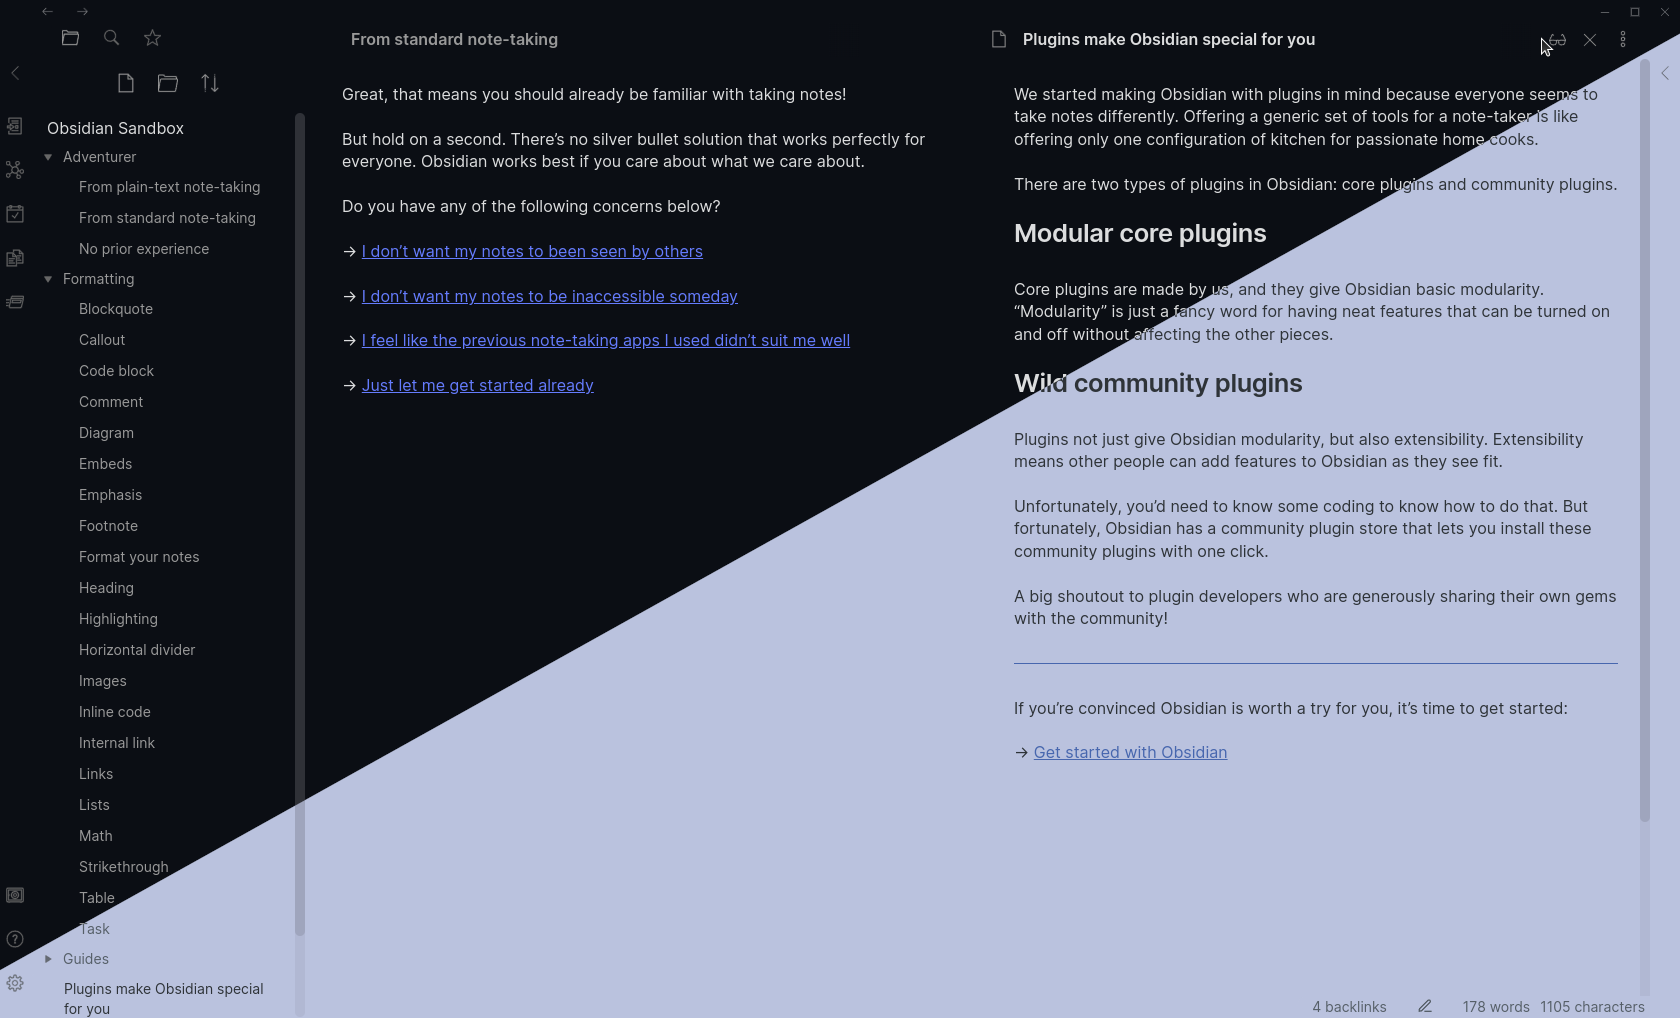
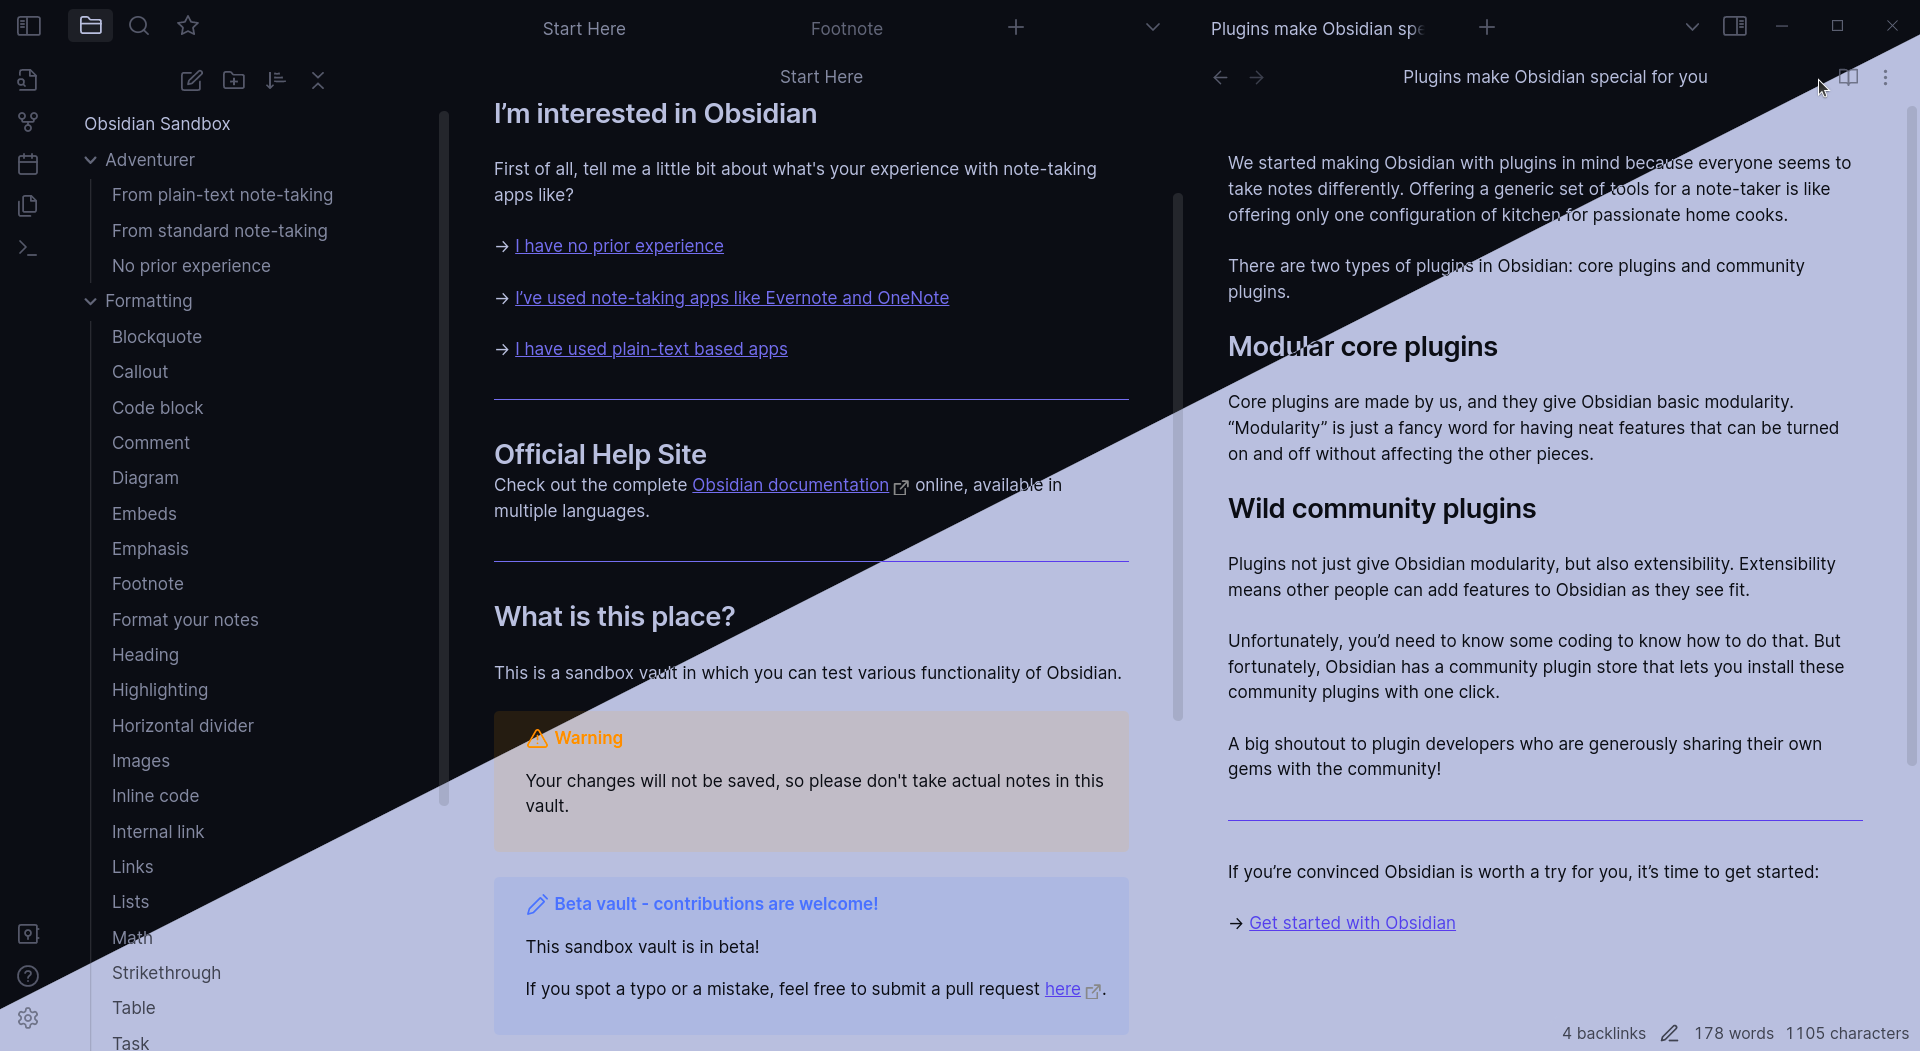
Initial version for Obsidian 1.0

diff --git a/theme.css b/theme.css
@@ -1,0 +1,64 @@
+.theme-dark {
+  --color-base-00: #0b0e14;
+  --color-base-10: #1c2028;
+  --color-base-20: #2d323c;
+  --color-base-25: #363b46;
+  --color-base-30: #3f4450;
+  --color-base-35: #474d5a;
+  --color-base-40: #505664;
+  --color-base-50: #626879;
+  --color-base-60: #737a8d;
+  --color-base-70: #848ca1;
+  --color-base-100: #b9c3de;
+}
+
+.theme-light {
+  --color-base-00: #b9c3de;
+  --color-base-05: #b0b9d3;
+  --color-base-10: #a7b0c9;
+  --color-base-20: #969eb5;
+  --color-base-25: #8d95ab;
+  --color-base-30: #848ca1;
+  --color-base-35: #7c8397;
+  --color-base-40: #737a8d;
+  --color-base-50: #626879;
+  --color-base-60: #505664;
+  --color-base-70: #3f4450;
+  --color-base-100: #0b0e14;
+  --accent-l: 60%;
+}
+
+body {
+  --background-primary-alt: var(--background-primary);
+  --background-secondary: var(--background-primary);
+  --background-modifier-active-hover: var(--background-primary);
+  
+  --titlebar-background: var(--background-primary);
+  --titlebar-background-focused: var(--background-primary);
+  
+  --divider-color: var(--background-primary);
+  --tab-divider-color: var(--background-primary);
+  
+  --icon-color: var(--text-faint);
+
+  --accent-h: 228;
+
+  --hr-color: var(--text-accent);
+}
+
+.titlebar-button:not(:hover) { color: var(--text-faint); }
+
+.workspace-tab-header:not(.is-active, :hover) .workspace-tab-header-inner-title {
+  color: var(--tab-text-color) !important;
+}
+
+.workspace-tab-header:not(:hover) .workspace-tab-header-inner-close-button { opacity: 0 !important; }
+
+/* Unusable: Hover doesn't work on drag area
+/* .workspace-tab-header-container:not(:hover) .workspace-tab-header-new-tab { display: none; }*/
+
+.workspace-tab-header-inner-title { text-align: center; }
+
+.view-header:not(:hover) :is(.view-header-nav-buttons, .view-actions) { opacity: 0; }
+
+hr { border-width: 1px !important; }

diff --git a/README.md b/README.md
@@ -1,5 +1,5 @@
 # Obsidian Fusion
 
-Theme for Obsidian which intends to remove unnecessary visual elements, with minimal CSS.
+Theme for Obsidian which intends to remove unnecessary visual elements.
 
 ![](cover.png)
